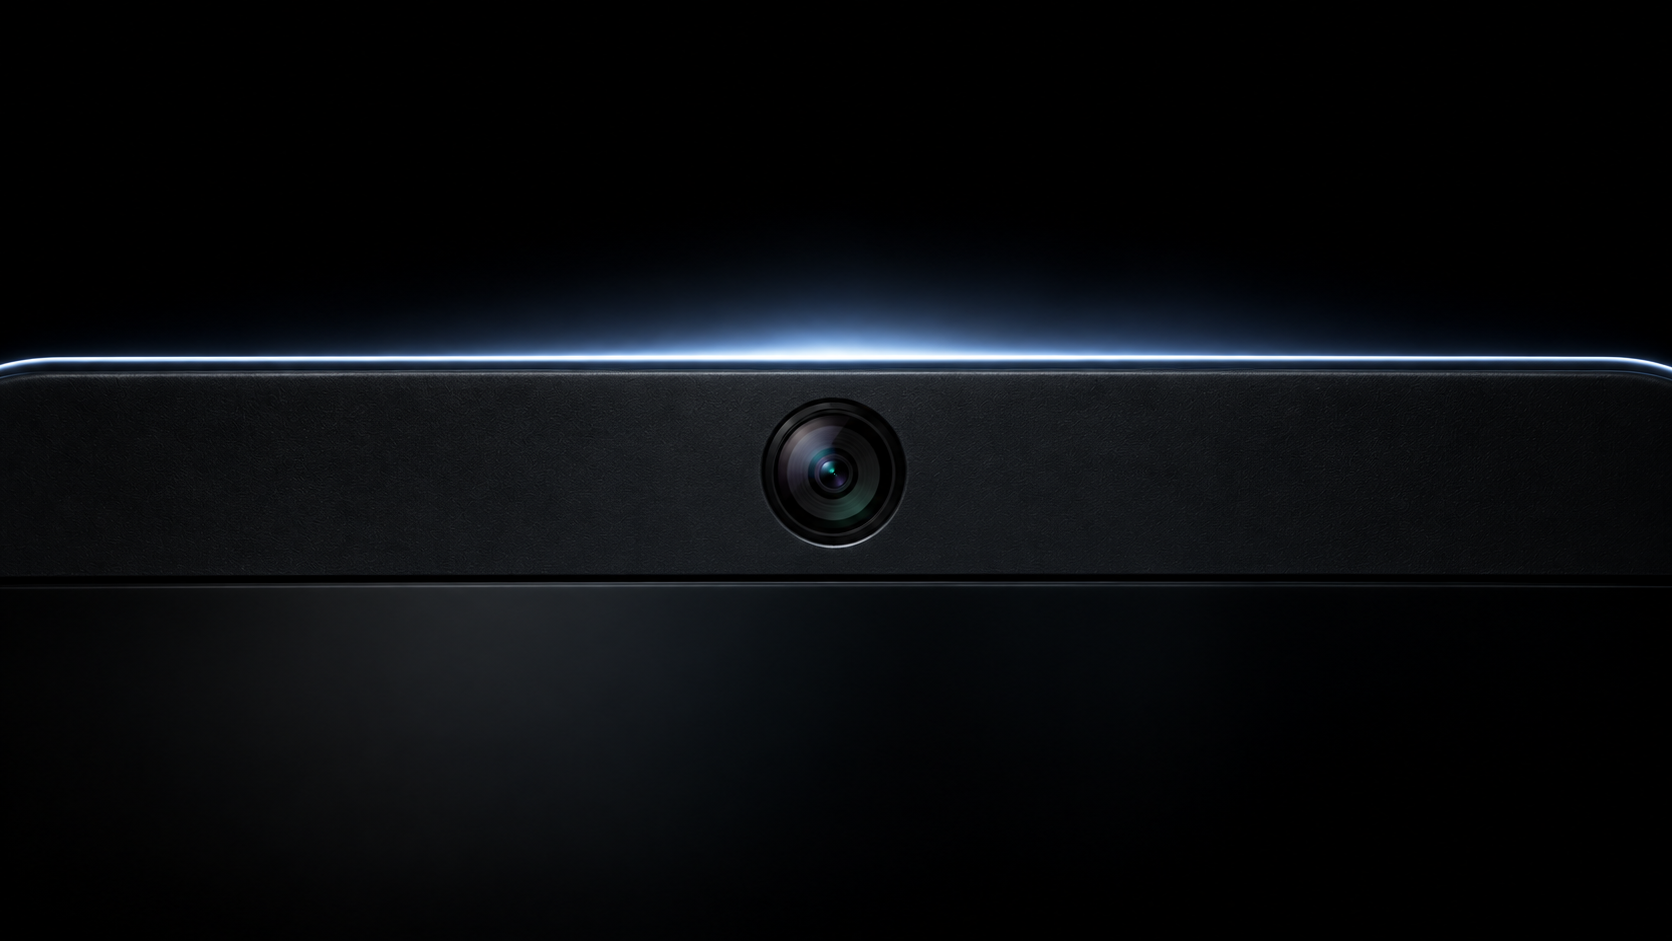
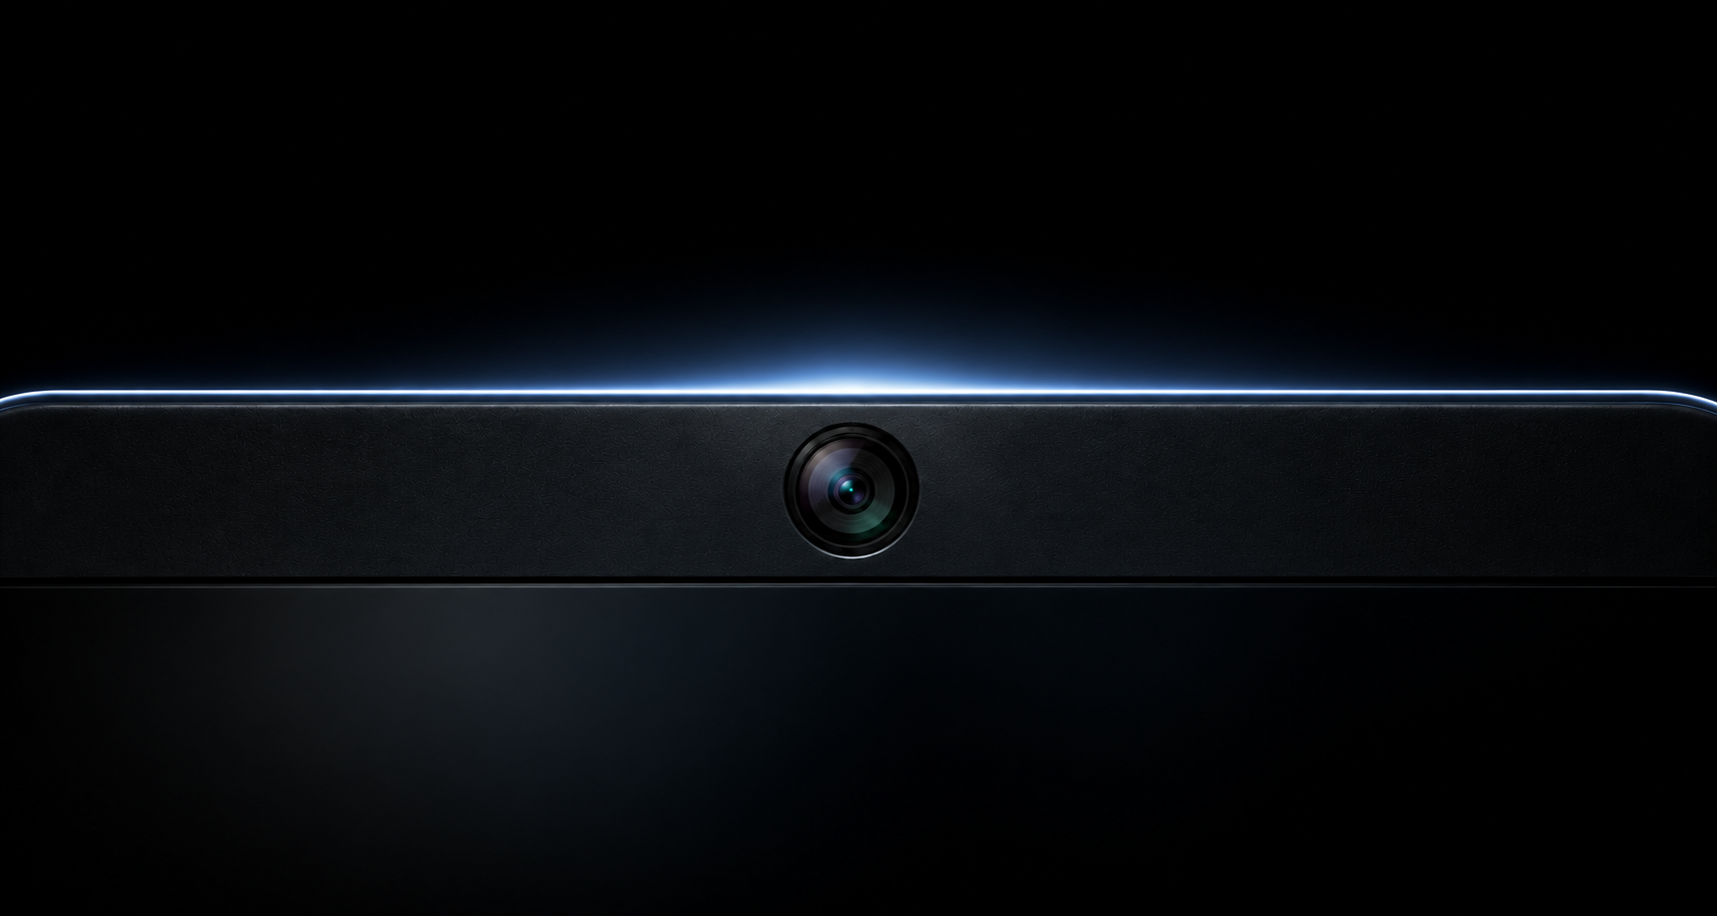
메인페이지-민지선
메인페이지수정

Changed region(s): [[0.0, 0.2751, 1.0, 0.6419]]

diff --git a/frontend/src/pages/MainPage.tsx b/frontend/src/pages/MainPage.tsx
@@ -1,19 +1,259 @@
-import { useRef } from 'react';
-import Cam from "../assets/Cam.png"
-import CounselImg from "../assets/CounselImg.png"
-import { motion, useScroll, useTransform } from 'framer-motion';
+import { useRef } from "react";
+import Cam from "../assets/Cam.png";
+import face_1 from "../assets/face_1.png";
+import CounselImg_2 from "../assets/CounselImg_2.png"; 
+import EmotionCalender from "../assets/EmotionCalender.png" 
+import Report from "../assets/Report.png"
 
+import { motion, useScroll, useTransform } from "framer-motion";
 
+export default function MainPage() {
+  const containerRef = useRef<HTMLDivElement>(null);
 
+  const { scrollYProgress } = useScroll({
+    target: containerRef,
+    offset: ["start start", "end end"],
+  });
 
- export default function MainPage() {
+  /* ==================================================
+     2번 화면
+     아래에서 위로 올라옴
+     ================================================== */
+
+  const secondY = useTransform(
+    scrollYProgress,
+    [0, 0.18, 0.35],
+    ["100%", "100%", "0%"]
+  );
+
+  /* ==================================================
+     2번 face_1 크기 모션
+     ================================================== */
+
+  const faceScale = useTransform(
+    scrollYProgress,
+    [0.35, 0.50],
+    [0.8, 1]
+  );
+
+  /* ==================================================
+     2번 화면
+     왼쪽으로 밀려남
+
+     전환 속도 느리게
+     ================================================== */
+
+  const secondX = useTransform(
+    scrollYProgress,
+    [0.55, 0.80],
+    ["0%", "-100%"]
+  );
+
+  /* ==================================================
+     3번 CounselImg_2
+     오른쪽에서 왼쪽으로 들어옴
+
+     전환 속도 느리게
+     ================================================== */
+
+  const thirdX = useTransform(
+    scrollYProgress,
+    [0.55, 0.80],
+    ["100%", "0%"]
+  );
+
   return (
-    <div className="relative left-1/2 -translate-x-1/2 w-[100vw] h-screen -mt-[1px] bg-black overflow-hidden">
-      <img
-        src={Cam}
-        alt="Feely 메인 이미지"
-        className="absolute inset-0 w-full h-full object-cover"
-      />
+    <div className="w-full bg-white">
+
+      {/* ==================================================
+          스크롤 공간
+          ================================================== */}
+      <section
+        ref={containerRef}
+        className="relative h-[500vh]"
+      >
+
+        {/* ==================================================
+            화면 고정 영역
+            ================================================== */}
+        <div className="fixed top-0 left-0 w-screen h-screen overflow-hidden">
+
+
+          {/* ==================================================
+              1번 이미지
+              ================================================== */}
+          <div
+            className="
+              absolute
+              top-0
+              left-0
+              w-screen
+              h-screen
+              z-10
+              bg-black
+              overflow-hidden
+            "
+          >
+            <img
+              src={Cam}
+              alt="Feely 카메라"
+              className="
+                block
+                w-screen
+                h-screen
+                object-cover
+              "
+            />
+          </div>
+
+
+          {/* ==================================================
+              2번 화면
+              아래에서 올라온 후 왼쪽으로 밀림
+              ================================================== */}
+          <motion.div
+            style={{
+              y: secondY,
+              x: secondX,
+            }}
+            className="
+              absolute
+              top-[70px]
+              left-0
+              w-screen
+              h-[calc(100vh-70px)]
+              z-20
+              bg-black
+              overflow-hidden
+            "
+          >
+
+            <div
+              className="
+                w-full
+                h-full
+                flex
+              "
+            >
+
+              {/* 2번 왼쪽 50% */}
+              <div
+                className="
+                  relative
+                  w-1/2
+                  h-full
+                  bg-white
+                  flex
+                  items-center
+                  justify-center
+                  overflow-hidden
+                "
+              >
+
+                <motion.img
+                  src={face_1}
+                  alt="얼굴 이미지"
+                  style={{
+                    scale: faceScale,
+                  }}
+                  className="
+                    block
+                    max-w-[80%]
+                    max-h-[80%]
+                    object-contain
+                  "
+                />
+
+              </div>
+
+
+              {/* 2번 오른쪽 50% */}
+              <div
+                className="
+                  w-1/2
+                  h-full
+                  bg-black
+                "
+              />
+
+            </div>
+
+          </motion.div>
+
+
+          {/* ==================================================
+              3번 CounselImg_2
+              왼쪽 검정 / 오른쪽 이미지
+              ================================================== */}
+          <motion.div
+            style={{
+              x: thirdX,
+            }}
+            className="
+              absolute
+              top-[70px]
+              left-0
+              w-screen
+              h-[calc(100vh-70px)]
+              z-30
+              bg-black
+              overflow-hidden
+            "
+          >
+
+            <div
+              className="
+                w-full
+                h-full
+                flex
+              "
+            >
+
+              {/* 3번 왼쪽 50% */}
+              <div
+                className="
+                  w-1/2
+                  h-full
+                  bg-black
+                "
+              />
+
+
+              {/* 3번 오른쪽 50% */}
+              <div
+                className="
+                  w-1/2
+                  h-full
+                  bg-white
+                  flex
+                  items-center
+                  justify-center
+                  overflow-hidden
+                "
+              >
+
+                <img
+                  src={CounselImg_2}
+                  alt="AI 상담 화면"
+                  className="
+                    block
+                    max-w-full
+                    max-h-full
+                    object-contain
+                  "
+                />
+
+              </div>
+
+            </div>
+
+          </motion.div>
+
+
+        </div>
+
+      </section>
+
     </div>
   );
 }
